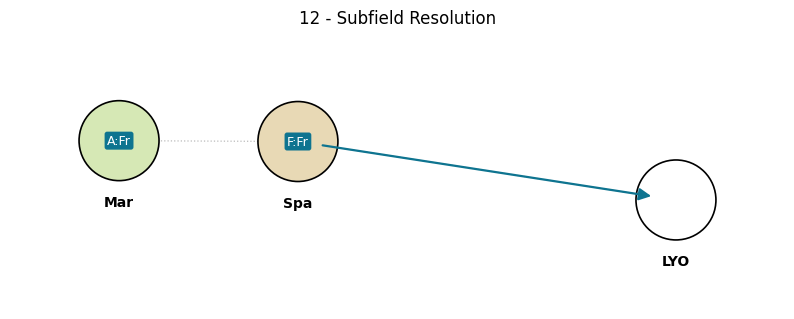
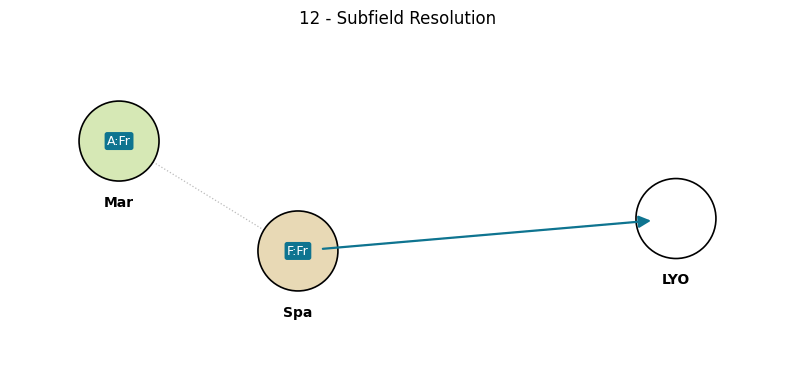
feat(dwex): render con as bezier curve + spread linear examples
con orders (convoy) now render with the same orthogonal-system grammar as
the other support-like orders:

  shape: open bracket '-[' at the curve's end (dock/anchor look)
  curve: from convoyer, through the convoyed army's start, to the army's
         destination (analogous to msup which goes supporter -> via -> dest)
  color: nation of the convoyer
  line:  solid for success, dashed when the order was marked '!'

When the convoyed army has no matching mve order in the doc (degenerate
case) the renderer falls back to a hexagon marker on the convoyer so the
order stays visible.

In parallel, manually spread the source positions in the four examples
whose fields all sat on a single y-line (04, 07, 08, 12). Numbers stay
'roughly as before' per the user's intent — ±0.2 to ±0.4 y-offsets — but
the diagrams no longer read as a flat row.

Documentation table updated; con is no longer 'reserved'.

diff --git a/project/dipworkpy/tools/dwex/render_png.py b/project/dipworkpy/tools/dwex/render_png.py
@@ -194,6 +194,42 @@ def render_png(doc: DwexDocument, out: Path) -> None:
                 shrinkA=0, shrinkB=0, zorder=5,
             )
             ax.add_patch(arrow)
+        elif o.order == "con":
+            # Convoy: Bezier curve from convoyer through the convoyed army's
+            # start to the army's destination. End shape is an open bracket
+            # `-[` — distinct from mve/msup/hsup tips, evoking a 'dock' visual.
+            if o.dest is None or o.dest not in pos or o.current not in pos:
+                continue
+            supported_dest = move_dest_by_current.get(o.dest)
+            if supported_dest is None or supported_dest not in pos:
+                # Convoyed unit has no mve — fall back to a hexagon marker on
+                # the convoyer so the order is at least visible.
+                cxc, cyc = pos[o.current]
+                ax.scatter(
+                    [cxc], [cyc], marker="h", s=110,
+                    color=color, edgecolor="white", linewidths=0.8, zorder=5,
+                )
+                continue
+            sx, sy = pos[o.current]
+            vx, vy = pos[o.dest]
+            ex, ey = pos[supported_dest]
+            pad_axis = radius + 0.04
+            t1x, t1y = vx - sx, vy - sy
+            t1len = math.hypot(t1x, t1y) or 1.0
+            start = (sx + t1x / t1len * pad_axis, sy + t1y / t1len * pad_axis)
+            t2x, t2y = ex - vx, ey - vy
+            t2len = math.hypot(t2x, t2y) or 1.0
+            end = (ex - t2x / t2len * pad_axis, ey - t2y / t2len * pad_axis)
+            path = MplPath(
+                [start, (vx, vy), end],
+                [MplPath.MOVETO, MplPath.CURVE3, MplPath.CURVE3],
+            )
+            arrow = FancyArrowPatch(
+                path=path, arrowstyle="-[", mutation_scale=14,
+                color=color, linestyle=linestyle, lw=1.4,
+                shrinkA=0, shrinkB=0, zorder=5,
+            )
+            ax.add_patch(arrow)
 
     # mve arrows — filled-triangle arrowhead identifies the order type
     for o in doc.orders:

diff --git a/project/doc/examples/README.md b/project/doc/examples/README.md
@@ -17,12 +17,12 @@ The renderer uses three independent visual axes. Each axis communicates exactly 
 
 ### Axis 1: shape → order type
 
-| Order   | Visual                                                                   |
-|---------|--------------------------------------------------------------------------|
-| `mve`   | filled triangle arrowhead (matplotlib `-\|>`)                            |
-| `msup`  | open V arrowhead (`->`) at the end of a Bézier curve through the supported unit |
-| `hsup`  | square marker at the held unit                                           |
-| `con`   | hexagon at the convoyer — *reserved, not yet rendered*                   |
+| Order   | Visual                                                                                |
+|---------|---------------------------------------------------------------------------------------|
+| `mve`   | filled triangle arrowhead (matplotlib `-\|>`)                                         |
+| `msup`  | open V arrowhead (`->`) at the end of a Bézier curve through the supported unit       |
+| `hsup`  | square marker at the held unit                                                        |
+| `con`   | open bracket (`-[`, dock/anchor) at the end of a Bézier curve from the convoyer through the convoyed army's start to its destination |
 
 ### Axis 2: line style → outcome
 
